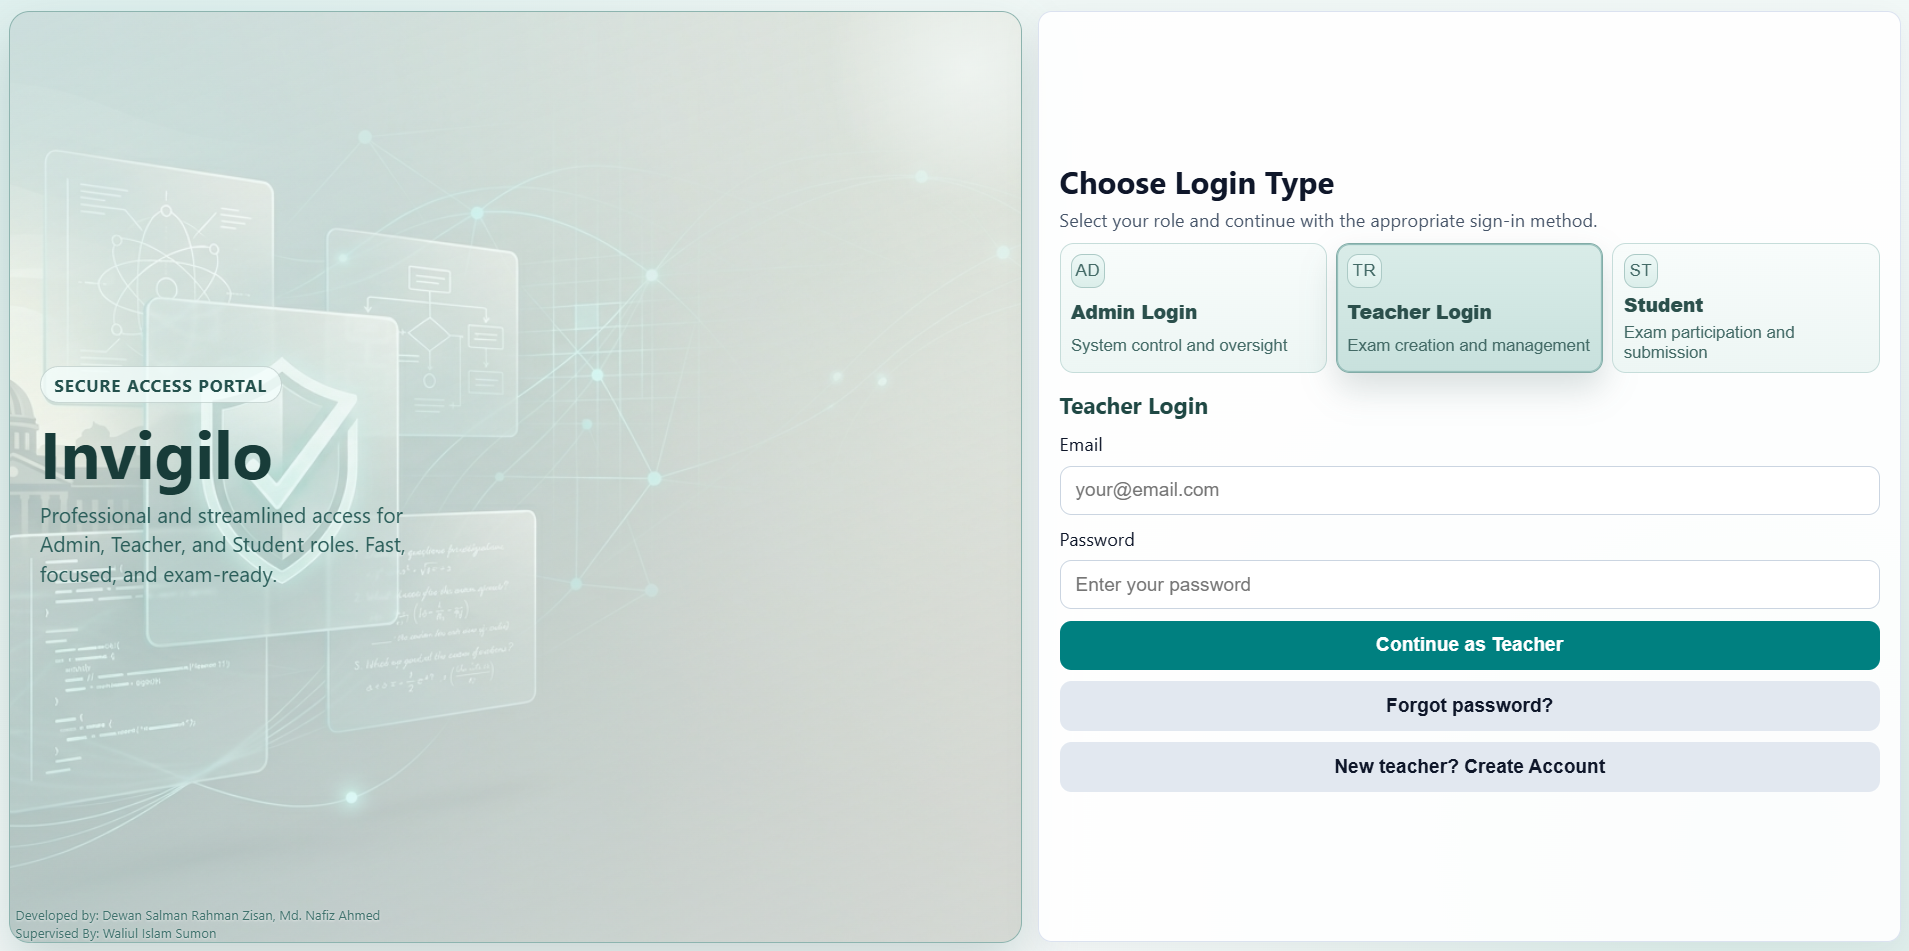
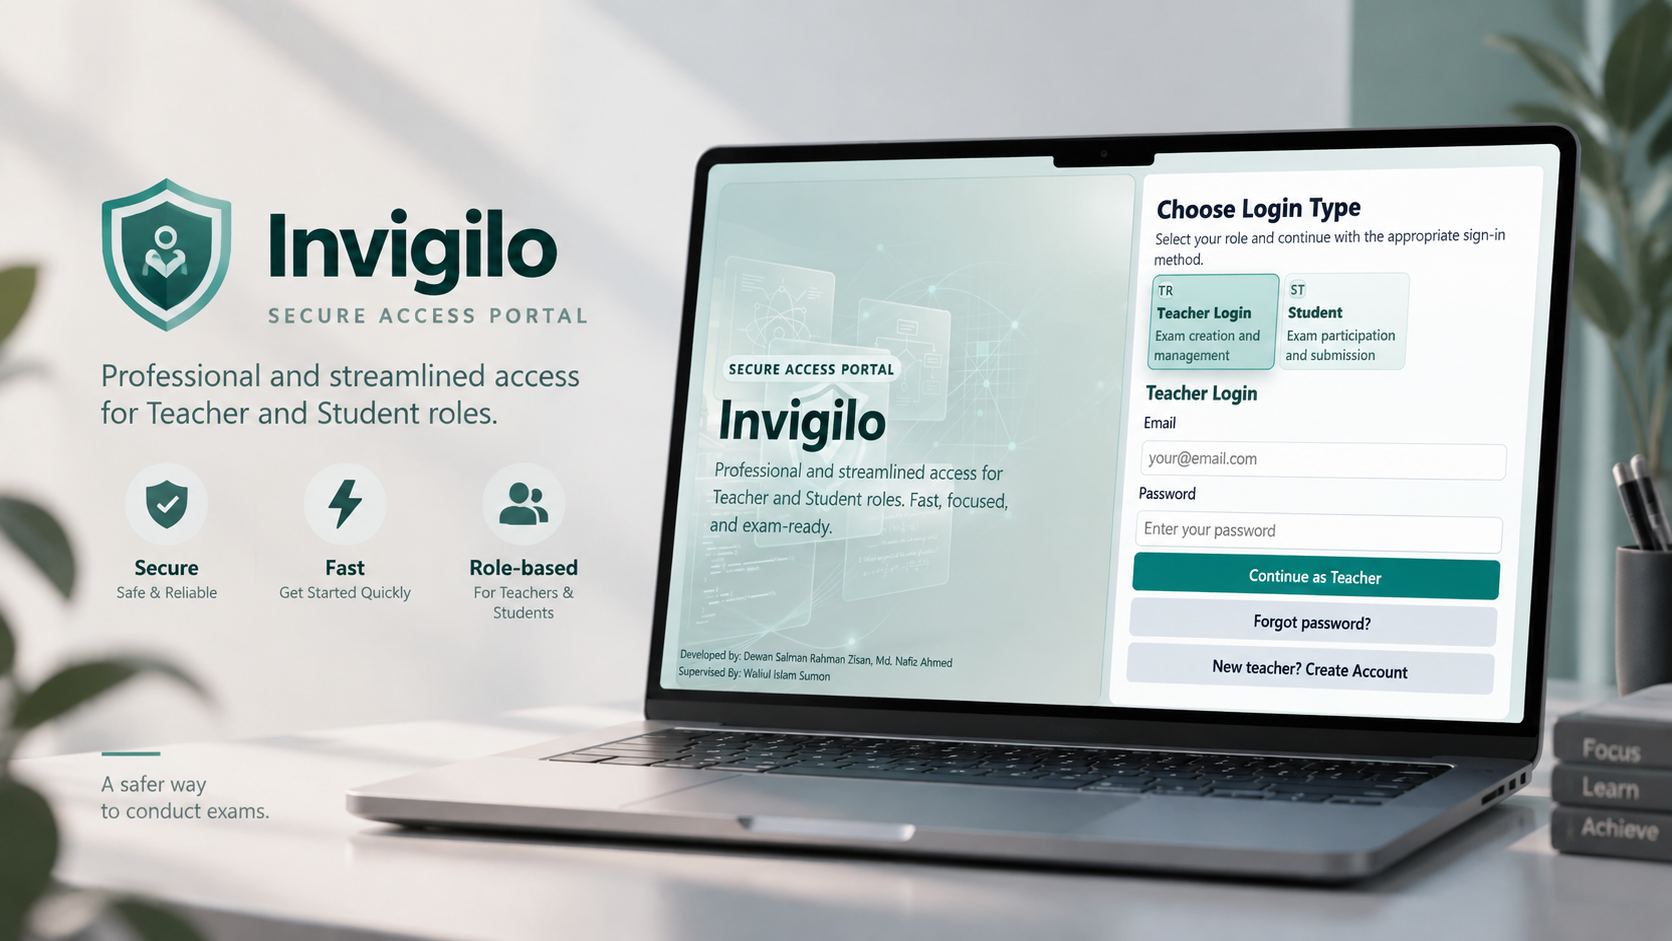
feat: add DeenQuest and Nongor, reorder featured projects
Nongor and DeenQuest take the 3rd and 4th slots, moving Invigilo to
5th. Also refreshes the BalanceLoop and Invigilo cover images and
trims a few descriptions that overflowed the card's three-line clamp.

diff --git a/src/data/projects.ts b/src/data/projects.ts
@@ -7,7 +7,7 @@ export const allProjects: Project[] = [
     id: "balanceloop",
     title: "BalanceLoop",
     description:
-      "An offline-first mobile app for splitting expenses and settling balances across friends and groups — fully usable with no network.",
+      "An offline-first mobile app for splitting expenses and settling balances across friends and groups, fully usable offline.",
     technologies: ["React Native", "Expo", "TypeScript", "Supabase"],
     image: "/images/projects/BalanceLoop.png",
     liveUrl: "https://ripwr3nch.github.io/BalanceLoop/index.html",
@@ -21,6 +21,25 @@ export const allProjects: Project[] = [
     technologies: ["React.js", "Node.js", "Gemma", "FFmpeg"],
     image: "/images/projects/Shruti.png",
     githubUrl: "https://github.com/ripWr3ncH/Shruti",
+  },
+  {
+    id: "nongor",
+    title: "Nongor",
+    description:
+      "An offline crisis companion for Bangladesh floods: mesh SOS, shelter routing and emergency translation.",
+    technologies: ["Kotlin", "Jetpack Compose", "Gemma 4"],
+    image: "/images/projects/nongor.png",
+    liveUrl: "https://youtu.be/9GsZ_ATN0ZQ",
+    githubUrl: "https://github.com/ripWr3ncH/Nongor",
+  },
+  {
+    id: "deenquest",
+    title: "DeenQuest",
+    description:
+      "An Android app for finishing the Quran in daily 5–15 minute sessions, with prayer times and Adhan alerts.",
+    technologies: ["React Native", "Expo", "TypeScript"],
+    image: "/images/projects/deenquest.png",
+    githubUrl: "https://github.com/ripWr3ncH/DeenQuest",
   },
   {
     id: "invigilo",
